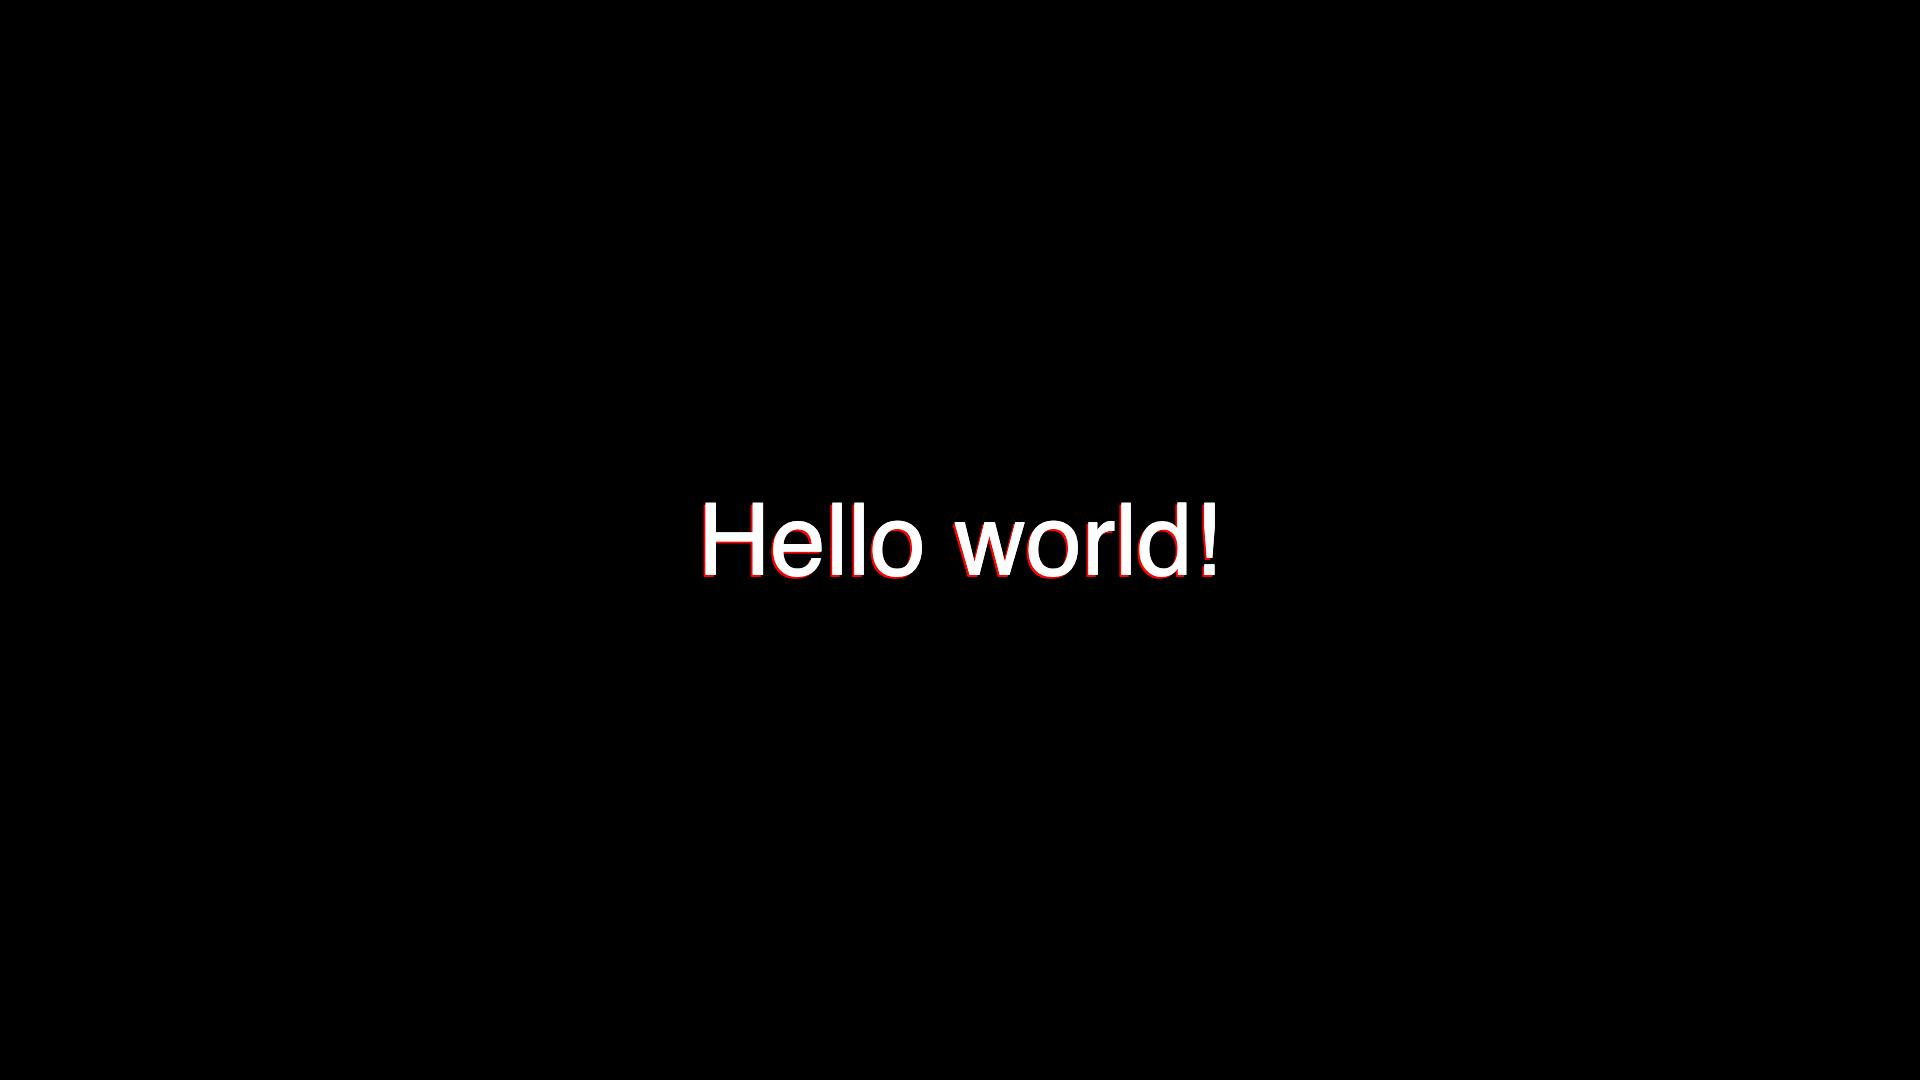
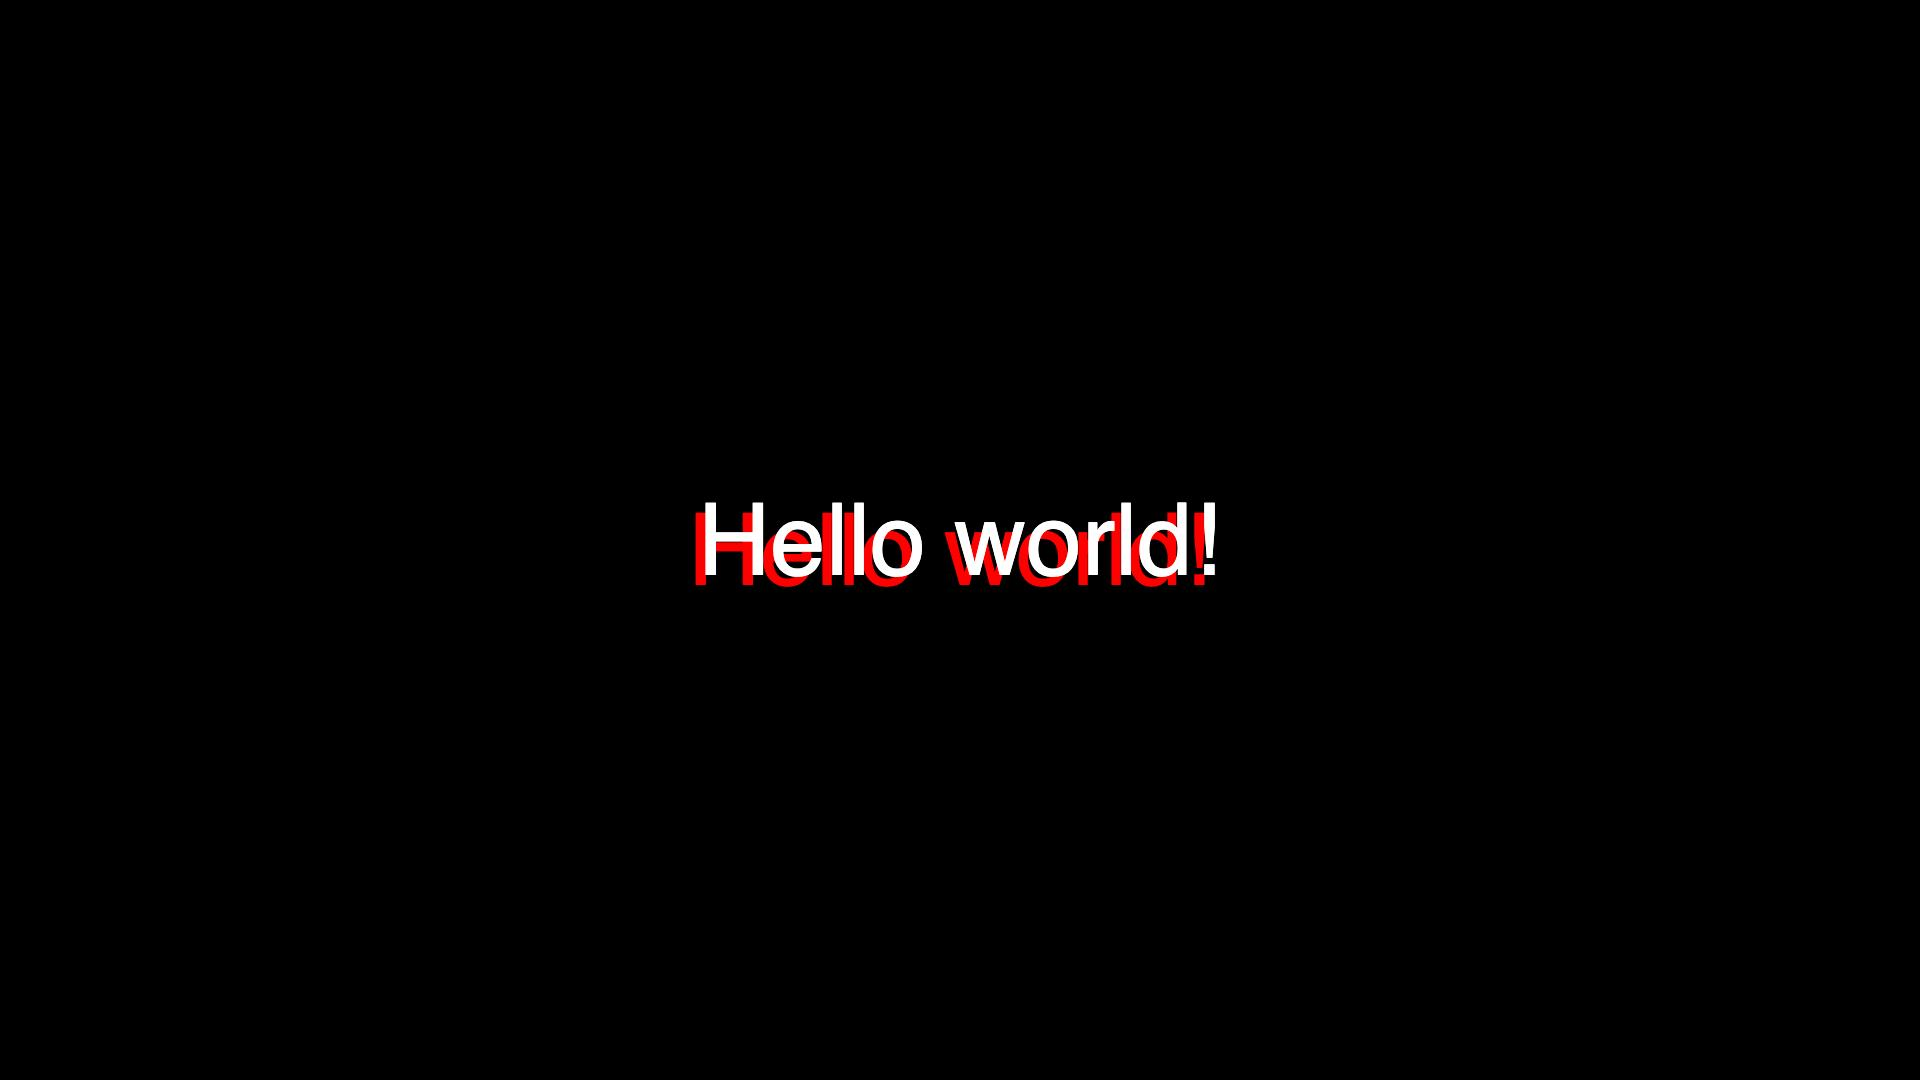
Make the tutorial shadow idea clearer

Changed region(s): [[0.3438, 0.4583, 0.6562, 0.55]]

diff --git a/docs/tutorial.md b/docs/tutorial.md
@@ -128,25 +128,25 @@ Add the following line to the code:
 
 !window size=1920;1080
   !canvas
-    !text text="Hello world!" font_size=100 point=958;542 color=1;0;0
+    !text text="Hello world!" font_size=100 point=950;550 color=1;0;0
     !text text="Hello world!" font_size=100 point=960;540 color=1
 ```
 
 You should see the window now displays the original message in white, overlaid
-on top of the same text in red drawn with a slight offset. The result is a
-slight red 3D "shadow" to the original text. There are some immediately useful
-things to learn from this:
+on top of the same text in red drawn with an offset. The result is a red
+"shadow" to the original text. There are some immediately useful things to learn
+from this:
 
 - Drawing generally proceeds downwards through the file, with later elements
   drawn on top of earlier ones.
 - The drawing canvas follows the common document convention of the origin being
-  at the top left and the *y* axis pointing down. So `542` is lower down in the
-  window than `540` and `958` is further left than `960`.
+  at the top left and the *y* axis pointing down. So `550` is lower down in the
+  window than `540` and `950` is further left than `960`.
 - Colors can be specified as either 1 or 3 item vectors. If given as a single
   value then the number represents a gray level from 0 to 1, if given as three
   values then the number represents an RGB triplet also in the range 0 to 1.
 
-!["Hello World!" written in white with a slight red
+!["Hello World!" written in white with a red
 shadow](tutorial_images/tutorial2.jpg)
 
 We can pull out some of the duplicated values in these two text nodes so that
@@ -159,17 +159,17 @@ of the new indentation):
 !window size=1920;1080
   !canvas
     !group font_size=100 translate=960;540 color=1
-      !text text="Hello world!" point=-2;2 color=1;0;0
+      !text text="Hello world!" point=-10;10 color=1;0;0
       !text text="Hello world!"
 ```
 
 Here we place the two `!text` nodes inside a `!group` node that abstracts out
 the common `font_size`, changes the drawing origin with `translate` and sets
 a default `color`. The first `!text` node overrides this default color and,
-specifies a drawing point offset from this origin 2px to the left and 2px down.
-The second `!text` node doesn't specify a `point` at all, which causes it to be
-drawn at the group origin and, without a `color` attribute, it will be drawn
-with the group color.
+specifies a drawing point offset from this origin 10px to the left and 10px
+down. The second `!text` node doesn't specify a `point` at all, which causes it
+to be drawn at the group origin and, without a `color` attribute, it will be
+drawn with the group color.
 
 `!group` nodes alter the drawing context for the nodes that they contain. They
 are able to change the local transformation matrix that establishes the drawing
@@ -187,7 +187,7 @@ Try adding a final line to this program (again, note the indentation level):
 !window size=1920;1080
   !canvas
     !group font_size=100 translate=960;540 color=1
-      !text text="Hello world!" point=-2;2 color=1;0;0
+      !text text="Hello world!" point=-10;10 color=1;0;0
       !text text="Hello world!"
     !text text="Figure 1:" point=100;100 color=1
 ```
@@ -199,8 +199,8 @@ the default drawing origin of the top left. In fact, if we had left off the
 drawing color is black. None of the drawing context introduced by the
 `!group` node is retained outside of it.
 
-!["Hello World!" written in white with a slight red shadow and "Figure 1" small
-in the top-left corner](tutorial_images/tutorial3.jpg)
+!["Hello World!" written in white with a red shadow and "Figure 1" small in the
+top-left corner](tutorial_images/tutorial3.jpg)
 
 An important lesson to learn from this tiny example is that both block structure
 (this is *in* that) and context (like origin and paint color) are managed
@@ -231,7 +231,7 @@ let SIZE=1920;1080
 !window size=SIZE
   !canvas
     !group font_size=100 translate=SIZE/2 color=1
-      !text text="Hello world!" point=-2;2 color=1;0;0
+      !text text="Hello world!" point=-10;10 color=1;0;0
       !text text="Hello world!"
     !text text="Figure 1:" point=100;100 color=1
 ```
@@ -269,7 +269,7 @@ func text3d(text, offset, shadow_color)
 !window size=SIZE
   !canvas
     !group font_size=100 translate=SIZE/2 color=1
-      text3d("Hello world!", 2, 1;0;0)
+      text3d("Hello world!", 10, 1;0;0)
     !text text="Figure 1:" point=100;100 color=1
 ```
 
@@ -294,27 +294,11 @@ original code than it appeared.
 
 ## For Loops
 
-What if we change the program so that the `offset` value is larger? For example:
+It would be great if instead of this simple shadow we could fill in the gap
+between the shadow and the text to create a solid 3D effect. We could achieve
+this by drawing more pieces of text in the `shadow_color` at different offsets.
 
-```{code-block} flitter
-:emphasize-lines: 10
-
-let SIZE=1920;1080
-
-func text3d(text, offset, shadow_color)
-  !text text=text point=-offset;offset color=shadow_color
-  !text text=text
-
-!window size=SIZE
-  !canvas
-    !group font_size=100 translate=SIZE/2 color=1
-      text3d("Hello world!", 10, 1;0;0)
-    !text text="Figure 1:" point=100;100 color=1
-```
-
-The 3D effect of the text starts to break down and we end up with two separate
-pieces of text. What we want to do is fill in the gap. We can draw more pieces
-of text in the `shadow_color` using a [`for` loop](language.md#for-loops):
+We'll use a [`for` loop](language.md#for-loops) to do this:
 
 ```{code-block} flitter
 :emphasize-lines: 4,5
@@ -353,7 +337,7 @@ evaluation of the loop body. The result of this loop is a 10-item vector of
 node so that the function returns a vector of 11 nodes. These 11 nodes are then
 appended to the group.
 
-!["Hello World!" written in white with a long red 3D shadow and "Figure 1" small
+!["Hello World!" written in white with a 3D solid effect and "Figure 1" small
 in the top-left corner](tutorial_images/tutorial4.jpg)
 
 :::{note}
